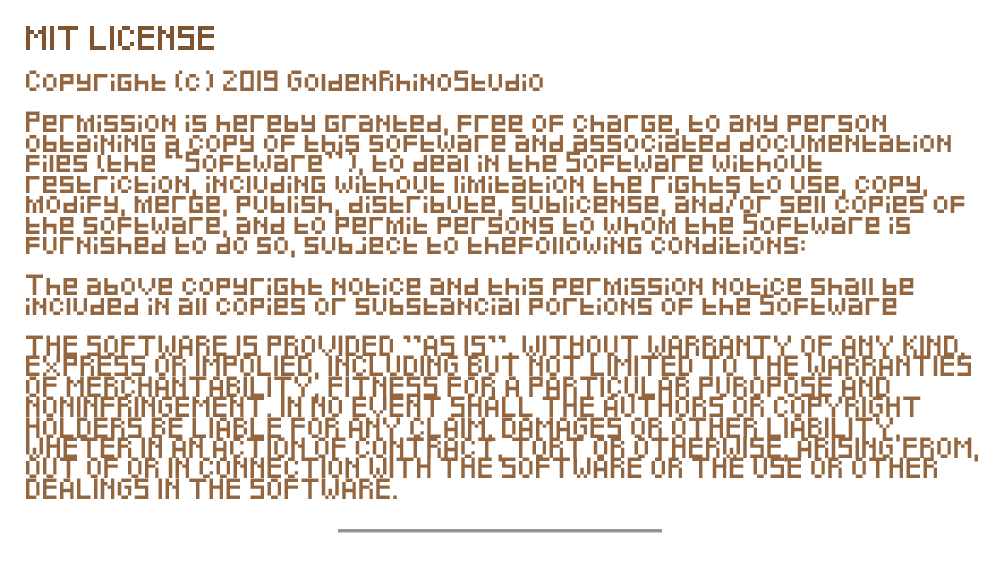
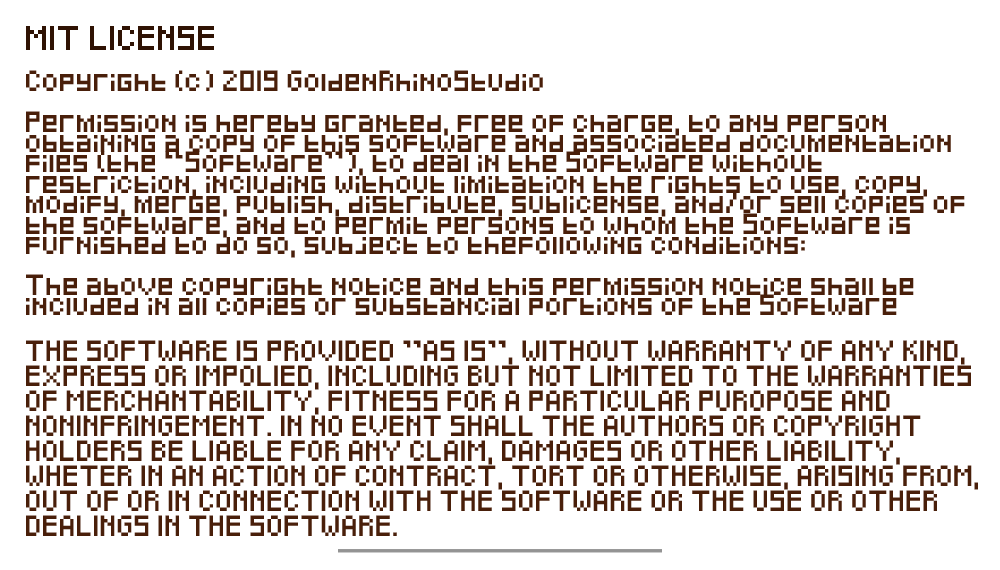
cleaned code + updated font

diff --git a/CursedHeaven/Motor2D/j1SceneMenu.cpp b/CursedHeaven/Motor2D/j1SceneMenu.cpp
@@ -55,7 +55,7 @@ bool j1SceneMenu::Start()
 		gui_tex2 = App->tex->Load("gui/uipack_rpg_sheet.png");
 		
 		// Loading fonts
-		font = App->font->Load("fonts/PixelCowboy/PixelCowboy.otf", 8);
+		font = App->font->Load("fonts/Pixeled.ttf", 5);
 
 		// We will use it to check if there is a save file
 		pugi::xml_document save_game;
@@ -80,11 +80,11 @@ bool j1SceneMenu::Start()
 
 		App->gui->CreateButton(&menuButtons, BUTTON, 130, 100 + 70, idle, hovered, clicked, gui_tex2, SETTINGS);
 
-		App->gui->CreateLabel(&menuLabels, LABEL, 143, 122, font, "Start", App->gui->beige);
-		App->gui->CreateLabel(&menuLabels, LABEL, 131, 147, font, "Continue", App->gui->beige);
-		App->gui->CreateLabel(&menuLabels, LABEL, 131, 172, font, "Settings", App->gui->beige);
-		App->gui->CreateLabel(&menuLabels, LABEL, 135, 197, font, "Credits", App->gui->beige);
-		App->gui->CreateLabel(&menuLabels, LABEL, 149, 222, font, "Exit", App->gui->beige);
+		App->gui->CreateLabel(&menuLabels, LABEL, 152, 120, font, "Start", App->gui->beige);
+		App->gui->CreateLabel(&menuLabels, LABEL, 147, 145, font, "Continue", App->gui->beige);
+		App->gui->CreateLabel(&menuLabels, LABEL, 147, 170, font, "Settings", App->gui->beige);
+		App->gui->CreateLabel(&menuLabels, LABEL, 149, 195, font, "Credits", App->gui->beige);
+		App->gui->CreateLabel(&menuLabels, LABEL, 156, 220, font, "Exit", App->gui->beige);
 
 		player_created = false;
 		
@@ -234,10 +234,7 @@ bool j1SceneMenu::PostUpdate()
 bool j1SceneMenu::CleanUp()
 {
 	LOG("Freeing all textures");
-	App->tex->UnLoad(logo_tex);
-	App->tex->UnLoad(harpy_tex);
-	App->tex->UnLoad(player_tex);
-	App->tex->UnLoad(gui_tex);
+	App->tex->UnLoad(gui_tex2);
 	
 	App->map->CleanUp();
 	App->tex->CleanUp();

diff --git a/CursedHeaven/Motor2D/j1SceneSettings.cpp b/CursedHeaven/Motor2D/j1SceneSettings.cpp
@@ -59,7 +59,7 @@ bool j1SceneSettings::Start()
 		gui_tex2 = App->tex->Load("gui/uipack_rpg_sheet.png");
 
 		// Loading fonts
-		font3 = App->font->Load("fonts/PixelCowboy/PixelCowboy.otf", 8);
+		font = App->font->Load("fonts/Pixeled.ttf", 10);
 
 		// Creates the window
 		sets_window = App->gui->CreateBox(&settingBoxes, BOX, 60, 55, { 621, 377, 785, 568 }, wind_tex);
@@ -75,11 +75,9 @@ bool j1SceneSettings::Start()
 		SDL_Rect clicked5 = { 421, 511, 37, 33 };
 		App->gui->CreateButton(&settingButtons, BUTTON, 7, 7, idle5, hovered5, clicked5, gui_tex2, GO_TO_MENU);
 
-		App->gui->CreateLabel(&settingLabels, LABEL, 132, 63, font3, "Settings", App->gui->brown, (j1UserInterfaceElement*)sets_window);
-
-		App->gui->CreateLabel(&settingLabels, LABEL, 95, 101, font3, "Sound", App->gui->brown, (j1UserInterfaceElement*)sets_window);
-
-		App->gui->CreateLabel(&settingLabels, LABEL, 96, 135, font3, "Music", App->gui->brown, (j1UserInterfaceElement*)sets_window);
+		App->gui->CreateLabel(&settingLabels, LABEL, 132, 54, font, "Settings", App->gui->brown, (j1UserInterfaceElement*)sets_window);
+		App->gui->CreateLabel(&settingLabels, LABEL, 95, 94, font, "Sound", App->gui->brown, (j1UserInterfaceElement*)sets_window);
+		App->gui->CreateLabel(&settingLabels, LABEL, 96, 129, font, "Music", App->gui->brown, (j1UserInterfaceElement*)sets_window);
 
 		startup_time.Start();
 	}

diff --git a/CursedHeaven/Motor2D/j1SceneCredits.cpp b/CursedHeaven/Motor2D/j1SceneCredits.cpp
@@ -73,13 +73,13 @@ bool j1SceneCredits::Start()
 		SDL_Rect idlegh = { 631, 145 , 36, 40 };
 		SDL_Rect hoveredgh = { 631, 221 , 36, 40 };
 		SDL_Rect clickedgh = { 631, 185 , 36, 37 };
-		App->gui->CreateButton(&creditsButtons, BUTTON, 153, 186, idlegh, hoveredgh, clickedgh, gui_tex2, LINK, (j1UserInterfaceElement*)credits_window);
+		App->gui->CreateButton(&creditsButtons, BUTTON, 151, 188, idlegh, hoveredgh, clickedgh, gui_tex2, LINK, (j1UserInterfaceElement*)credits_window);
 
 		// Web
 		SDL_Rect idleweb = { 667, 145 , 36, 40 };
 		SDL_Rect hoveredweb = { 667, 221 , 36, 40 };
 		SDL_Rect clickedweb = { 667, 185 , 36, 37 };
-		App->gui->CreateButton(&creditsButtons, BUTTON, 173, 186, idleweb, hoveredweb, clickedweb, gui_tex2, LINK2, (j1UserInterfaceElement*)credits_window);
+		App->gui->CreateButton(&creditsButtons, BUTTON, 171, 188, idleweb, hoveredweb, clickedweb, gui_tex2, LINK2, (j1UserInterfaceElement*)credits_window);
 
 		startup_time.Start();
 	}						 
@@ -197,7 +197,7 @@ bool j1SceneCredits::PostUpdate()
 bool j1SceneCredits::CleanUp()
 {
 	LOG("Freeing all textures");
-	App->tex->UnLoad(gui_tex);
+	App->tex->UnLoad(gui_tex2);
 
 	App->map->CleanUp();
 	App->tex->CleanUp();

diff --git a/CursedHeaven/Motor2D/j1SceneMenu.h b/CursedHeaven/Motor2D/j1SceneMenu.h
@@ -73,20 +73,11 @@ public:
 
 private:
 
-	SDL_Texture* gui_tex = nullptr;
-	SDL_Texture* logo_tex = nullptr;
-	SDL_Texture* player_tex = nullptr;
-	SDL_Texture* harpy_tex = nullptr;
 	SDL_Texture* gui_tex2 = nullptr;
 
 	_TTF_Font* font = nullptr;
-	_TTF_Font* font2 = nullptr;
 
-	
 	uint times = 0;
-
-	Animation player;
-	Animation harpy;
 
 	SCENE currentScene = SCENE::MENU;
 };

diff --git a/CursedHeaven/Motor2D/j1SceneCredits.h b/CursedHeaven/Motor2D/j1SceneCredits.h
@@ -50,7 +50,6 @@ public:
 
 private:
 
-	SDL_Texture* gui_tex = nullptr;
 	SDL_Texture* gui_tex2 = nullptr;
 	SDL_Texture* license = nullptr;
 	_TTF_Font* font = nullptr;

diff --git a/CursedHeaven/Motor2D/j1SceneSettings.h b/CursedHeaven/Motor2D/j1SceneSettings.h
@@ -59,7 +59,7 @@ public:
 
 private:
 
-	_TTF_Font* font3 = nullptr;
+	_TTF_Font* font = nullptr;
 	SDL_Texture* wind_tex = nullptr;
 	SDL_Texture* gui_tex2 = nullptr;
 
